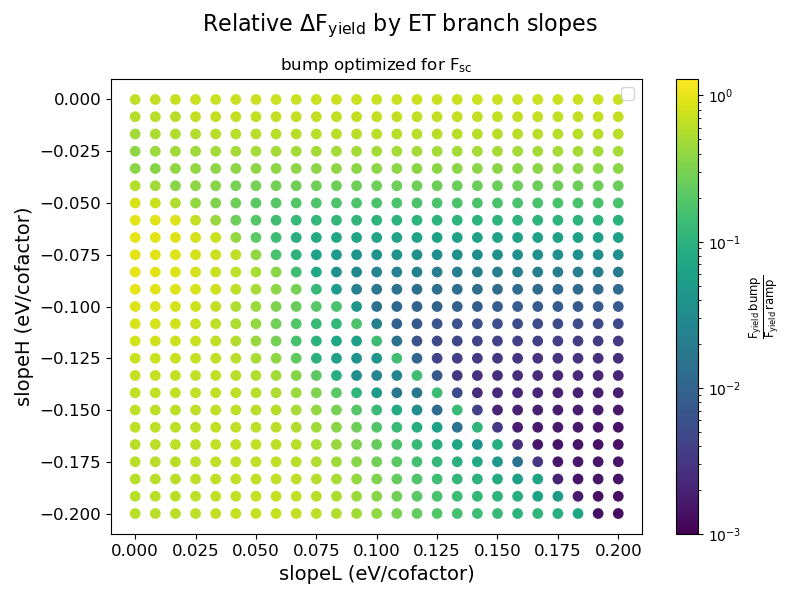
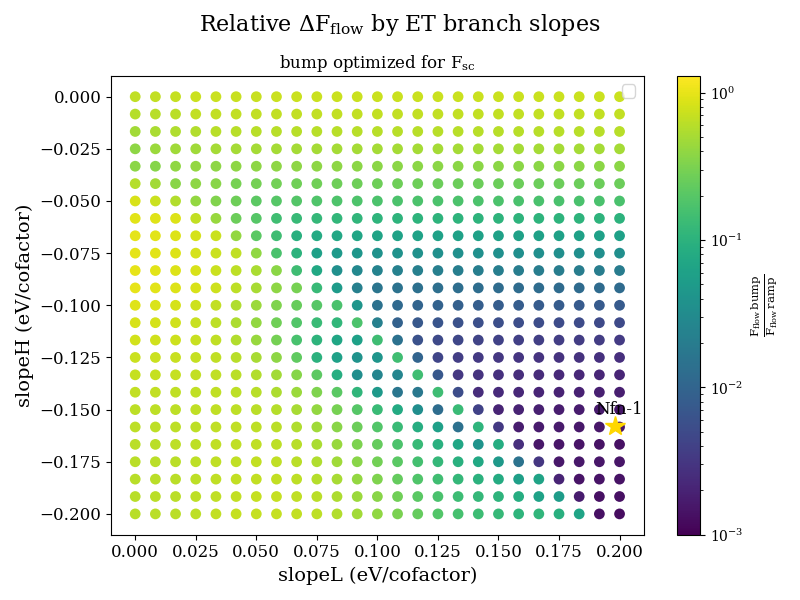
update plots

diff --git a/plots_bump.py b/plots_bump.py
@@ -149,8 +149,8 @@ def grid_Fsc_ratio(ramp, bump):
     slopeH = bump['slopeH']
 
     # log color bar
-    vmin = 0.2
-    vmax = 22.2
+    vmin = 1e-3
+    vmax = 1.3
     norm = LogNorm(vmin=vmin, vmax=vmax)
 
     # make plot
@@ -161,11 +161,16 @@ def grid_Fsc_ratio(ramp, bump):
 
     # labels
     plt.suptitle(r'Relative $\Delta\mathrm{F}_{\mathrm{sc}}$ by ET branch slopes', fontsize=16)
-    plt.title(r'bump optimized for $\mathrm{F}_{\mathrm{flow}}$', fontsize=12)
+    plt.title(r'bump optimized for $\mathrm{F}_{\mathrm{sc}}$', fontsize=12)
     plt.xlabel('slopeL (eV/cofactor)', fontsize=14)
     plt.ylabel('slopeH (eV/cofactor)', fontsize=14)
     plt.xticks(fontsize = 12)
     plt.yticks(fontsize = 12)
+
+    # annotate Nfn-1 position
+    plt.plot(0.198, -0.158, marker='*', color='gold', markersize=15)
+    plt.text(0.180, -0.140, 'Nfn-1', color='black', fontsize=12, verticalalignment='center')
+
     plt.tight_layout()
     plt.legend(fontsize=12)
     plt.show()
@@ -193,8 +198,8 @@ def grid_Fyield_ratio(ramp, bump):
     slopeH = bump['slopeH']
 
     # log color bar
-    vmin = 0.2
-    vmax = 22.2
+    vmin = 1e-3
+    vmax = 1.3
     norm = LogNorm(vmin=vmin, vmax=vmax)
 
     # make plot
@@ -205,11 +210,16 @@ def grid_Fyield_ratio(ramp, bump):
 
     # labels
     plt.suptitle(r'Relative $\Delta\mathrm{F}_{\mathrm{flow}}$ by ET branch slopes', fontsize=16)
-    plt.title(r'bump optimized for $\mathrm{F}_{\mathrm{flow}}$', fontsize=12)
+    plt.title(r'bump optimized for $\mathrm{F}_{\mathrm{sc}}$', fontsize=12)
     plt.xlabel('slopeL (eV/cofactor)', fontsize=14)
     plt.ylabel('slopeH (eV/cofactor)', fontsize=14)
     plt.xticks(fontsize = 12)
     plt.yticks(fontsize = 12)
+
+    # annotate Nfn-1 position
+    plt.plot(0.198, -0.158, marker='*', color='gold', markersize=15)
+    plt.text(0.180, -0.140, 'Nfn-1', color='black', fontsize=12, verticalalignment='center')
+
     plt.tight_layout()
     plt.legend(fontsize=12)
     plt.show()
@@ -300,6 +310,9 @@ def Nfn1_slopeH_slip(df_bump, df_ramp):
 
     plt.figure(figsize=(8, 6))
     plt.scatter(slopeH, F_slip_diff, color='blue', s = 10)
+    if -0.158 >= slopeH.min() and -0.158 <= slopeH.max():
+        y_star = np.interp(-0.158, slopeH, F_slip_diff)
+        plt.plot(-0.158, y_star, marker='*', color='gold', markersize=15, label='Nfn-1')
     #plt.axhline(1, linestyle='--', color='red')  # Reference line: no improvement
     #plt.text(x=slopeH.max(), y=1 - 0.02, s='no improvement', ha='right', va='top', fontsize=10, color='red')
     plt.title(r'Relative $\Delta\mathrm{F}_{\mathrm{slip}}$ vs. High Potential Branch Slope', fontsize=16)
@@ -307,6 +320,7 @@ def Nfn1_slopeH_slip(df_bump, df_ramp):
     plt.ylabel(r'$\frac{\mathrm{F}_{\mathrm{slip}} \, \mathrm{bump}}{\mathrm{F}_{\mathrm{slip}} \, \mathrm{ramp}}$', fontsize=14)
     plt.xticks(fontsize = 12)
     plt.yticks(fontsize = 12)
+    plt.legend(fontsize = 14)
     plt.tight_layout()
     plt.show()
 
@@ -328,6 +342,9 @@ def Nfn1_slopeH_yield(df_bump, df_ramp):
 
     plt.figure(figsize=(8, 6))
     plt.scatter(slopeH, F_yield_diff, color='blue', s = 10)
+    if -0.158 >= slopeH.min() and -0.158 <= slopeH.max():
+        y_star = np.interp(-0.158, slopeH, F_yield_diff)
+        plt.plot(-0.158, y_star, marker='*', color='gold', markersize=15, label='Nfn-1')
     #plt.axhline(1, linestyle='--', color='red')  # Reference line: no improvement
     #plt.text(x=slopeL.max(), y=1 - 0.02, s='no improvement', ha='right', va='top', fontsize=10, color='red')
     plt.title(r'Relative $\Delta\mathrm{F}_{\mathrm{flow}}$ vs. High Potential Branch Slope', fontsize=16)
@@ -335,6 +352,7 @@ def Nfn1_slopeH_yield(df_bump, df_ramp):
     plt.ylabel(r'$\frac{\mathrm{F}_{\mathrm{flow}} \, \mathrm{bump}}{\mathrm{F}_{\mathrm{flow}} \, \mathrm{ramp}}$', fontsize=14)
     plt.xticks(fontsize = 12)
     plt.yticks(fontsize = 12)
+    plt.legend(fontsize = 14)
     plt.tight_layout()
     plt.show()
 
@@ -349,12 +367,15 @@ def Nfn1_slopeH_sc(df_bump, df_ramp):
     df_bump = df_bump[df_bump["slopeH"].isin(common_slopeH)].reset_index(drop=True)
     df_ramp = df_ramp[df_ramp["slopeH"].isin(common_slopeH)].reset_index(drop=True)
 
-    F_yield_diff = df_bump['F_sc'] / df_ramp['F_sc']
+    F_sc_diff = df_bump['F_sc'] / df_ramp['F_sc']
 
     slopeH = df_bump['slopeH'] # same for both because of intersection
 
     plt.figure(figsize=(8, 6))
-    plt.scatter(slopeH, F_yield_diff, color='blue', s = 10)
+    plt.scatter(slopeH, F_sc_diff, color='blue', s = 10)
+    if -0.158 >= slopeH.min() and -0.158 <= slopeH.max():
+        y_star = np.interp(-0.158, slopeH, F_sc_diff)
+        plt.plot(-0.158, y_star, marker='*', color='gold', markersize=15, label='Nfn-1')
     #plt.axhline(1, linestyle='--', color='red')  # Reference line: no improvement
     #plt.text(x=slopeL.max(), y=1 - 0.02, s='no improvement', ha='right', va='top', fontsize=10, color='red')
     plt.title(r'Relative $\Delta\mathrm{F}_{\mathrm{sc}}$ vs. High Potential Branch Slope', fontsize=16)
@@ -362,6 +383,7 @@ def Nfn1_slopeH_sc(df_bump, df_ramp):
     plt.ylabel(r'$\frac{\mathrm{F}_{\mathrm{sc}} \, \mathrm{bump}}{\mathrm{F}_{\mathrm{sc}} \, \mathrm{ramp}}$', fontsize=14)
     plt.xticks(fontsize = 12)
     plt.yticks(fontsize = 12)
+    plt.legend(fontsize = 14)
     plt.tight_layout()
     plt.show()
 
@@ -411,6 +433,12 @@ def Nfn1_bump_Fslip(df):
 
     plt.figure(figsize=(8, 6))
     plt.plot(pH1, F_slip_ratio, color='blue', lw = 4)
+    plt.axhline(y=1, color='red', linestyle=':', linewidth=2)
+    plt.text(pH1.min(), 1.1, 'No change', color='red', fontsize=14)
+    if 0.080 >= pH1.min() and 0.080 <= pH1.max():
+        y_star = np.interp(0.080, pH1, F_slip_ratio)
+        plt.plot(0.080, y_star, marker='*', color='gold', markersize=15, label='Nfn-1')
+
     plt.title(r'$\mathrm{F}_{\mathrm{slip}}$ ratio vs. potential on H1', fontsize=22)
     plt.xlabel('Potential on H1 (eV)', fontsize=22)
     plt.ylabel(r'$\frac{\mathrm{F}_{\mathrm{slip}} \mathrm{bump}}{\mathrm{F}_{\mathrm{slip}} \mathrm{ramp}}$', fontsize=22)
@@ -436,6 +464,12 @@ def Nfn1_bump_Fyield(df):
 
     plt.figure(figsize=(8, 6))
     plt.plot(pH1, F_yield_ratio, color='blue', lw = 4)
+    plt.axhline(y=1, color='red', linestyle=':', linewidth=2)
+    plt.text(pH1.min(), 1.1, 'No change', color='red', fontsize=14)
+    if 0.080 >= pH1.min() and 0.080 <= pH1.max():
+        y_star = np.interp(0.080, pH1, F_yield_ratio)
+        plt.plot(0.080, y_star, marker='*', color='gold', markersize=15, label='Nfn-1')
+
     plt.title(r'$\mathrm{F}_{\mathrm{flow}}$ ratio vs. potential on H1', fontsize=22)
     plt.xlabel('Potential on H1 (eV)', fontsize=22)
     plt.ylabel(r'$\frac{\mathrm{F}_{\mathrm{flow}} \mathrm{bump}}{\mathrm{F}_{\mathrm{flow}} \mathrm{ramp}}$', fontsize=22)
@@ -460,6 +494,12 @@ def Nfn1_bump_Fsc(df):
 
     plt.figure(figsize=(8, 6))
     plt.plot(pH1, F_sc_ratio, color='blue', lw = 4)
+    plt.axhline(y=1, color='red', linestyle=':', linewidth=2)
+    plt.text(pH1.min(), 1.1, 'No change', color='red', fontsize=14)
+    if 0.080 >= pH1.min() and 0.080 <= pH1.max():
+        y_star = np.interp(0.080, pH1, F_sc_ratio)
+        plt.plot(0.080, y_star, marker='*', color='gold', markersize=15, label='Nfn-1')
+
     plt.title(r'$\mathrm{F}_{\mathrm{sc}}$ ratio vs. potential on H1', fontsize=22)
     plt.xlabel('Potential on H1 (eV)', fontsize=22)
     plt.ylabel(r'$\frac{\mathrm{F}_{\mathrm{sc}} \mathrm{bump}}{\mathrm{F}_{\mathrm{sc}} \mathrm{ramp}}$', fontsize=22)
@@ -471,7 +511,7 @@ def Nfn1_bump_Fsc(df):
     plt.show()
 
 if __name__ == '__main__':
-    '''
+    
     # === ramps w/ bump overlay ===
     ramp = pd.read_csv("ramps_FscFyield_20250630.csv")
     ramp_c = pd.read_csv('ramps_FscFyield_corner_20250702.csv')
@@ -487,11 +527,11 @@ if __name__ == '__main__':
     # ratio plots 
     # for bump opt by Fsc vmin = 1e-3, vmax = 1.3
     # for bump opt by Fyield vmin = 0.2, vmax = 22.2
-    grid_Fsc_ratio(ramp, bump_Fyield)
-    grid_Fyield_ratio(ramp, bump_Fyield)
-    grid_Fsc_ratio(ramp_c, bump_Fyield_c)
-    grid_Fyield_ratio(ramp_c, bump_Fyield_c)
-    '''
+    grid_Fsc_ratio(ramp, bump_Fsc)
+    grid_Fyield_ratio(ramp, bump_Fsc)
+    #grid_Fsc_ratio(ramp_c, bump_Fsc_c)
+    #grid_Fyield_ratio(ramp_c, bump_Fyield_c)
+    
     
     '''
     # === bump vs ramp plots ===
@@ -537,20 +577,21 @@ if __name__ == '__main__':
 
     constant_bump_v_ramp(slopeL, F_slip_diff)
     '''
-
+    '''
     # === Nfn-1 vary slopeH ===
-    df_bump = pd.read_csv("Nfn1_varyH_bump_fixDist_bif_20250711.csv")
+    df_bump = pd.read_csv("Nfn1_varyH_bump_bif_20250701.csv")
     #df_bump = df_bump[(df_bump['slopeH'] > -0.163) & (df_bump['slopeH'] < -0.153)]
-    df_ramp = pd.read_csv("Nfn1_varyH_ramp_fixDist_bif_20250711.csv")
+    df_ramp = pd.read_csv("Nfn1_varyH_ramp_bif_20250701.csv")
     #df_ramp = df_ramp[(df_ramp['slopeH'] > -0.163) & (df_ramp['slopeH'] < -0.153)]
     Nfn1_slopeH_slip(df_bump, df_ramp)
     Nfn1_slopeH_yield(df_bump, df_ramp)
     Nfn1_slopeH_sc(df_bump, df_ramp)
-
+    '''
     '''
     # === Nfn-1 metrics for range of bump sizes vs. ramp ====
-    df = pd.read_csv('Nfn1_varybump_fixDist_20250711.csv')
+    df = pd.read_csv('Nfn1_varybump_metrics_20250630.csv')
     Nfn1_bump_Fslip(df)
     Nfn1_bump_Fyield(df)
     Nfn1_bump_Fsc(df)
     '''
+    
